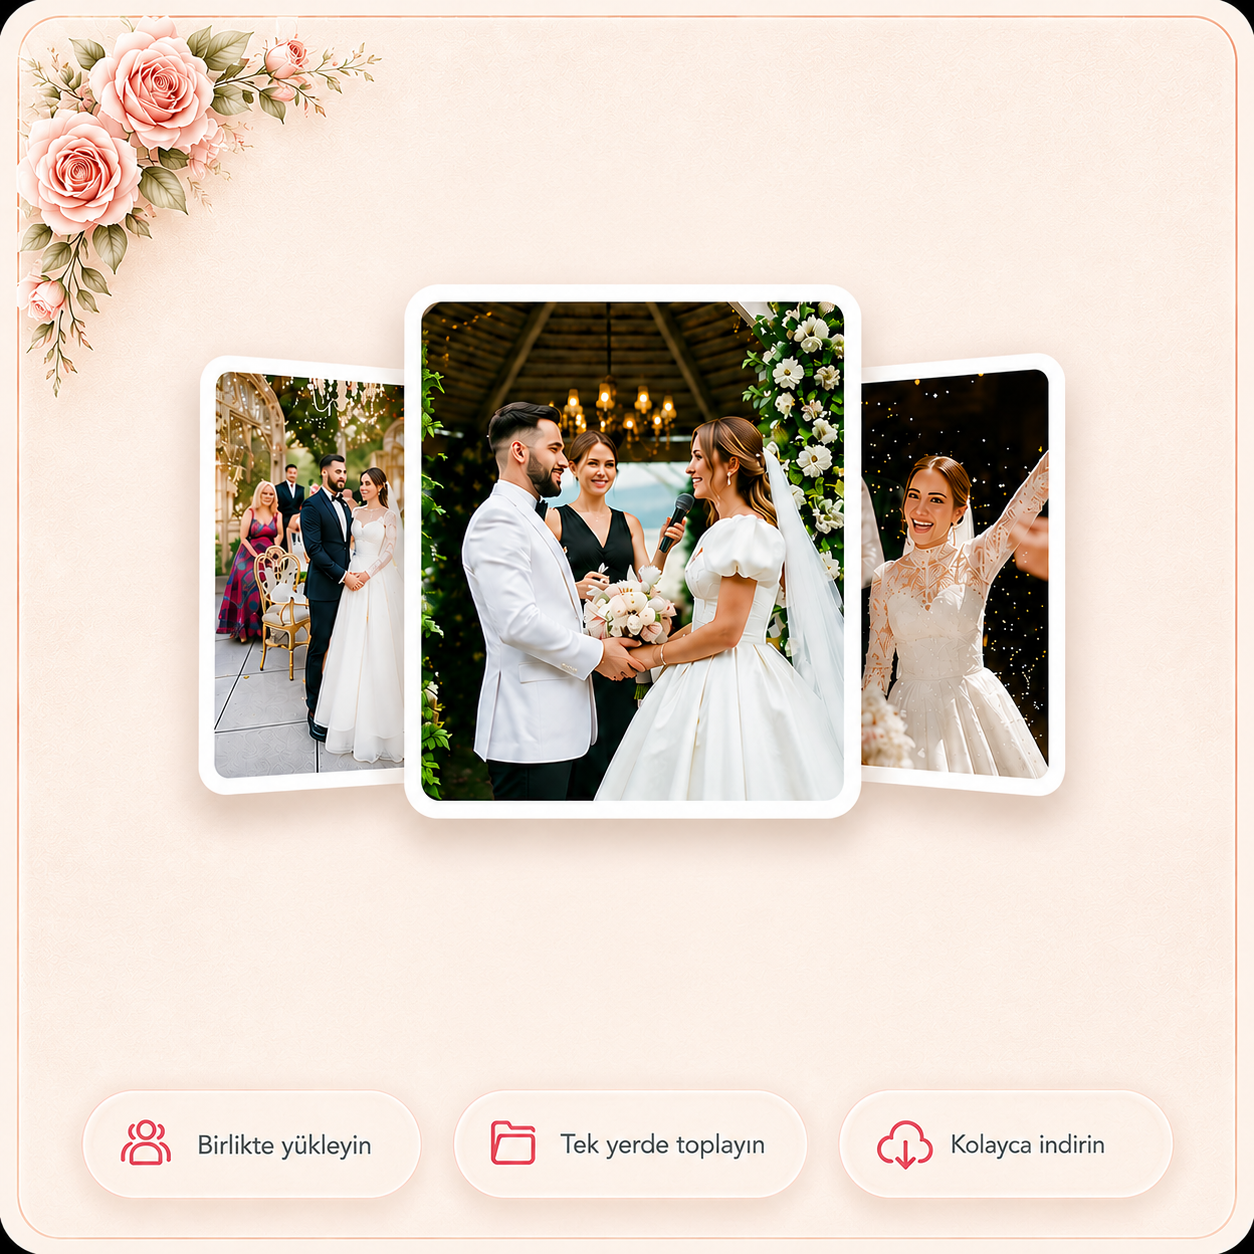
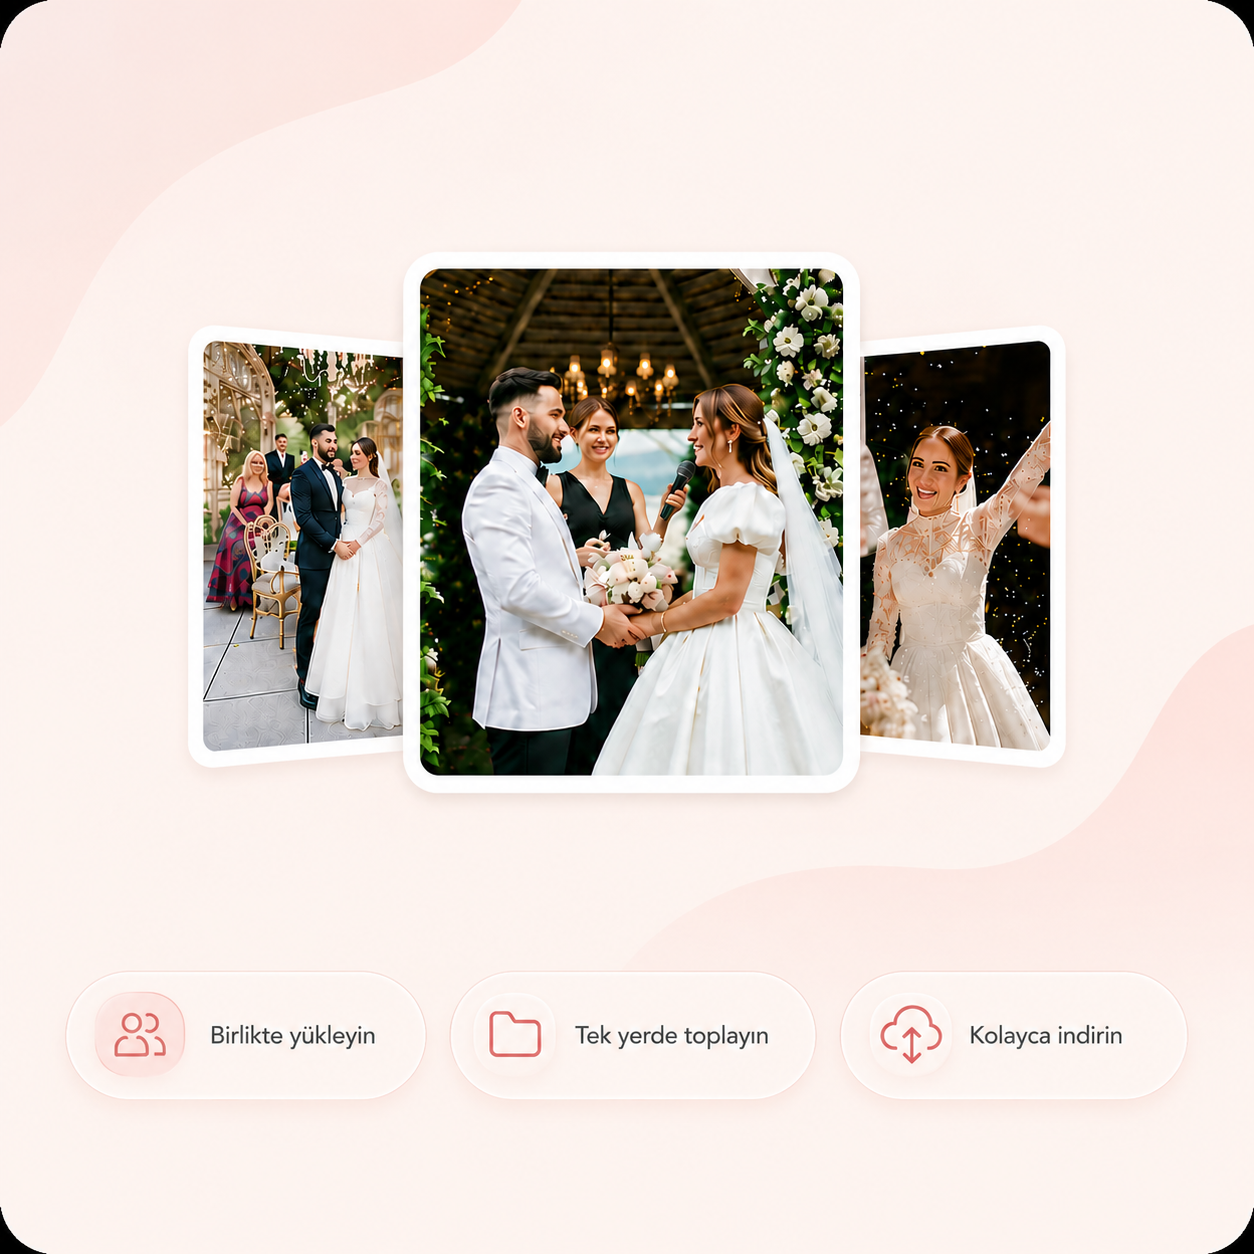
Adim 86: Canli yayin disclaimer + Tebrik zarf kaldir + Album v2 + Altin Tak yeniden tasarim
- Canli Yayin karti: '*Canli yayin kalitesi ve cozunurlugu internet baglanti
  hizimiza baglidir.' notu 3 badge'in altina eklendi (koyu gri).
- Tebrik karti: sol ust zarf ikonu kaldirildi, baslik top 20% -> 8% yukari alindi.
- Album karti: bg-album.png v2 ile guncellendi (hem ana sayfa hem canli sayfa
  album bolumu). Eski album-bg-4.png referansi degistirildi.
- Canli sayfa Altin Tak bolumu tamamen yeniden tasarlandi:
  + Yeni baslik (Playfair serif + altin renkli 'Altin Tak' + iki yanda altin cizgi)
  + 3 Trust Badge eklendi (Guvenli/Aninda/Banka Transferi - SVG iconlar)
  + 3x2 grid (Gram, Ceyrek+Populer, Yarim / Tam, Ata, Ozel)
  + Beyaz cardlar, sade krem bg, daha temiz shadow
  + Isim ust + gorsel orta + fiyat alt yerlesim

diff --git a/app/canli/[slug]/page.tsx b/app/canli/[slug]/page.tsx
@@ -1848,34 +1848,86 @@ export default function WatchPage() {
 
             {/* Mobilde Çift bilgisi + Aile kartı kaldırıldı (welcome modal'da gösteriliyor) */}
 
-            {/* Altın Tak - Premium */}
-            <div id="gold-section" className="mt-4 rounded-[20px] relative overflow-hidden" style={{ background: 'linear-gradient(180deg, rgba(248,240,224,0.85), rgba(240,230,210,0.8), rgba(232,220,202,0.85))', backdropFilter: 'blur(20px)', WebkitBackdropFilter: 'blur(20px)', boxShadow: '0 8px 40px rgba(180,155,120,0.12), 0 2px 10px rgba(0,0,0,0.04), inset 0 1px 0 rgba(255,255,255,0.5)', border: '1px solid rgba(212,175,55,0.12)' }}>
-              {/* Dekoratif ışıklar - daha parlak */}
-              <div className="absolute top-0 left-1/2 -translate-x-1/2 w-[80%] h-28 pointer-events-none" style={{ background: 'radial-gradient(ellipse at 50% 0%, rgba(232,210,160,0.25), rgba(212,175,55,0.08) 50%, transparent 80%)' }} />
-              <div className="absolute top-0 right-0 w-40 h-40 rounded-full blur-3xl opacity-[0.08] pointer-events-none" style={{ background: '#D4AF37' }} />
-              <div className="absolute top-0 left-0 w-32 h-32 rounded-full blur-3xl opacity-[0.05] pointer-events-none" style={{ background: '#E8C27A' }} />
-
-
-              <div className="px-5 pt-4 pb-3">
-                {/* Merkezi başlık */}
-                <div className="text-center mb-3">
-                  <h2 className="flex items-center justify-center gap-5 text-[30px] mb-1" style={{ color: '#5c4632', fontFamily: 'var(--font-script), "Cormorant Garamond", Georgia, serif', fontWeight: 600, letterSpacing: '1px', textShadow: '0 2px 6px rgba(60,40,20,0.2), 0 1px 2px rgba(0,0,0,0.1)' }}>
-                    <span className="flex-1 h-[1px]" style={{ background: 'linear-gradient(to right, transparent, #d4af37, transparent)', opacity: 0.6 }} />
-                    <span>Mutlu Çifte <span className="gold-title-shimmer" style={{ fontWeight: 700, color: '#C4A020' }}>Altın Tak</span></span>
-                    <span className="flex-1 h-[1px]" style={{ background: 'linear-gradient(to right, transparent, #d4af37, transparent)', opacity: 0.6 }} />
+            {/* Altın Tak - Yeni tasarım (referans görsele birebir) */}
+            <div id="gold-section" className="mt-4 rounded-[20px] relative overflow-hidden" style={{ background: 'linear-gradient(180deg, #FFF9F0 0%, #FDF4E7 100%)', boxShadow: '0 8px 32px rgba(180,155,120,0.10), 0 2px 8px rgba(0,0,0,0.03)', border: '1px solid rgba(220,200,170,0.20)' }}>
+              <div className="px-5 md:px-7 pt-6 pb-6">
+                {/* Başlık — sade serif + dash'lar */}
+                <div className="text-center mb-5 md:mb-6">
+                  <h2 className="flex items-center justify-center gap-3 md:gap-5" style={{ fontFamily: 'var(--font-playfair), Georgia, serif', fontWeight: 600, letterSpacing: '0.5px' }}>
+                    <span className="w-6 md:w-10 h-[2px]" style={{ background: '#C8A050', opacity: 0.6 }} />
+                    <span className="text-[24px] md:text-[30px] whitespace-nowrap" style={{ color: '#2B2B2B' }}>
+                      Mutlu Çifte{' '}
+                      <span style={{ color: '#C8A050', fontWeight: 700 }}>Altın Tak</span>
+                    </span>
+                    <span className="w-6 md:w-10 h-[2px]" style={{ background: '#C8A050', opacity: 0.6 }} />
                   </h2>
                 </div>
 
-                {/* Altın kartları */}
-                <div className="grid grid-cols-3 sm:grid-cols-4 md:grid-cols-6 gap-3">
+                {/* 3 Trust Badge satırı */}
+                <div className="grid grid-cols-3 gap-2.5 md:gap-3 mb-5 md:mb-6">
+                  {[
+                    {
+                      label: 'Güvenli',
+                      icon: (
+                        <svg viewBox="0 0 24 24" className="w-5 h-5 md:w-6 md:h-6" fill="#E26B72" stroke="#E26B72" strokeWidth="0.8">
+                          <path d="M12 2L4 5v6c0 5.5 3.8 10.7 8 12 4.2-1.3 8-6.5 8-12V5l-8-3z" fillOpacity="0.18" />
+                          <path d="M12 2L4 5v6c0 5.5 3.8 10.7 8 12 4.2-1.3 8-6.5 8-12V5l-8-3z" fill="none" />
+                          <path d="M9 12l2 2 4-4" fill="none" strokeWidth="2" strokeLinecap="round" strokeLinejoin="round" />
+                        </svg>
+                      ),
+                    },
+                    {
+                      label: 'Anında',
+                      icon: (
+                        <svg viewBox="0 0 24 24" className="w-5 h-5 md:w-6 md:h-6" fill="#F5B400">
+                          <path d="M13 2L4.5 13.5h6L9 22l8.5-11.5h-6L13 2z" />
+                        </svg>
+                      ),
+                    },
+                    {
+                      label: 'Banka Transferi',
+                      icon: (
+                        <svg viewBox="0 0 24 24" className="w-5 h-5 md:w-6 md:h-6" fill="none" stroke="#4A7AB7" strokeWidth="1.8" strokeLinecap="round" strokeLinejoin="round">
+                          <path d="M3 10L12 4l9 6" />
+                          <path d="M5 10v9M9 10v9M15 10v9M19 10v9" />
+                          <path d="M3 21h18" />
+                        </svg>
+                      ),
+                    },
+                  ].map((b, i) => (
+                    <div key={i} className="rounded-2xl px-3 md:px-4 py-3 flex items-center justify-center gap-2 md:gap-2.5"
+                         style={{ background: '#FFFFFF', boxShadow: '0 2px 8px rgba(140,110,70,0.06), 0 1px 3px rgba(0,0,0,0.03)' }}>
+                      {b.icon}
+                      <span className="text-[12px] md:text-[14px] font-semibold whitespace-nowrap" style={{ color: '#3B2F1E' }}>{b.label}</span>
+                    </div>
+                  ))}
+                </div>
+
+                {/* Altın kartları — 3 sütun (3×2 = 6 kart) */}
+                <div className="grid grid-cols-3 gap-3 md:gap-4">
                   {goldOptions.map((gold) => (
-                    <button key={gold.id} onClick={() => handleGoldSelect(gold.id)} className="group rounded-2xl p-4 text-center transition-all duration-300 hover:scale-[1.05] hover:-translate-y-1 relative overflow-hidden" style={{ background: gold.id === 'nakit' ? 'linear-gradient(165deg, #FCF7EC, #F4ECD8)' : 'linear-gradient(165deg, #FFFDF8, #F8F2E8)', boxShadow: '0 4px 16px rgba(150,130,100,0.08), 0 1px 3px rgba(0,0,0,0.04)', border: '1px solid rgba(200,180,150,0.15)' }} onMouseEnter={(e) => { e.currentTarget.style.boxShadow = '0 12px 35px rgba(212,175,55,0.15), 0 4px 12px rgba(0,0,0,0.06)'; e.currentTarget.style.border = '1px solid rgba(212,175,55,0.25)'; }} onMouseLeave={(e) => { e.currentTarget.style.boxShadow = '0 4px 16px rgba(150,130,100,0.08), 0 1px 3px rgba(0,0,0,0.04)'; e.currentTarget.style.border = '1px solid rgba(200,180,150,0.15)'; }}>
-                      {/* Hover glow */}
-                      <div className="absolute inset-0 opacity-0 group-hover:opacity-100 transition-opacity duration-500 rounded-2xl" style={{ background: 'radial-gradient(circle at 50% 30%, rgba(212,175,55,0.1), transparent 70%)' }} />
-                      {gold.id === 'ceyrek_altin' && <div className="absolute top-1.5 left-1/2 -translate-x-1/2 text-[8px] font-bold px-2.5 py-0.5 rounded-full text-white z-10" style={{ background: 'linear-gradient(135deg, #B8860B, #96700A)', boxShadow: '0 2px 6px rgba(184,134,11,0.3)' }}>Popular</div>}
-                      <div className="relative w-14 h-14 mx-auto mb-2.5 group-hover:scale-110 transition-transform duration-300"><Image src={gold.image} alt={gold.name} fill className="object-contain drop-shadow-md" /></div>
-                      <div className="text-[13px] sm:text-[14px] font-semibold leading-tight whitespace-nowrap" style={{ color: '#4A3C28' }}>{gold.name}</div>
-                      {gold.price > 0 ? (<div className="text-[13px] font-bold mt-1" style={{ color: '#8B6914' }}>₺{gold.price.toLocaleString()}</div>) : (<div className="text-[13px] mt-1" style={{ color: '#A88A30' }}>Serbest</div>)}
+                    <button key={gold.id} onClick={() => handleGoldSelect(gold.id)}
+                            className="group rounded-2xl px-3 pt-4 pb-3 md:px-4 md:pt-5 md:pb-4 text-center transition-all duration-300 hover:scale-[1.03] hover:-translate-y-0.5 relative"
+                            style={{ background: '#FFFFFF', boxShadow: '0 4px 12px rgba(150,120,80,0.08), 0 1px 3px rgba(0,0,0,0.03)', border: '1px solid rgba(220,200,170,0.18)' }}>
+                      {/* Populer badge - sadece Çeyrek Altın */}
+                      {gold.id === 'ceyrek_altin' && (
+                        <div className="absolute -top-2.5 left-1/2 -translate-x-1/2 text-[9px] md:text-[10px] font-bold px-3 py-0.5 rounded-full text-white z-10"
+                             style={{ background: 'linear-gradient(135deg, #B8860B, #96700A)', boxShadow: '0 2px 6px rgba(184,134,11,0.30)', letterSpacing: '0.3px' }}>
+                          Populer
+                        </div>
+                      )}
+                      {/* İsim */}
+                      <div className="text-[13px] md:text-[15px] font-semibold mb-2 md:mb-3 whitespace-nowrap" style={{ color: '#2B2B2B' }}>{gold.name}</div>
+                      {/* Görsel */}
+                      <div className="relative w-14 h-14 md:w-20 md:h-20 mx-auto mb-2 md:mb-3 group-hover:scale-105 transition-transform duration-300">
+                        <Image src={gold.image} alt={gold.name} fill className="object-contain drop-shadow-md" />
+                      </div>
+                      {/* Fiyat / Serbest */}
+                      {gold.price > 0 ? (
+                        <div className="text-[14px] md:text-[18px] font-bold" style={{ color: '#8B6914', letterSpacing: '0.2px' }}>₺{gold.price.toLocaleString()}</div>
+                      ) : (
+                        <div className="text-[13px] md:text-[15px] font-medium" style={{ color: '#A88A30' }}>Serbest</div>
+                      )}
                     </button>
                   ))}
                 </div>
@@ -1925,8 +1977,8 @@ export default function WatchPage() {
               <button onClick={() => setShowMessageModal(true)} className="text-white px-4 py-2.5 rounded-xl font-semibold text-xs flex-shrink-0 transition-all hover:scale-105 flex items-center gap-1.5 relative overflow-hidden" style={{ background: 'linear-gradient(135deg, #A8D6B0, #6DC275, #5BA865)', boxShadow: '0 6px 16px rgba(91,168,101,0.28), inset 0 1px 0 rgba(255,255,255,0.4)' }}><span className="absolute inset-0 opacity-50" style={{ background: 'linear-gradient(180deg, rgba(255,255,255,0.25) 0%, transparent 50%)' }} /><span className="relative">Gönder</span><svg className="w-3 h-3 relative" fill="none" stroke="currentColor" viewBox="0 0 24 24"><path strokeLinecap="round" strokeLinejoin="round" strokeWidth={3} d="M9 5l7 7-7 7" /></svg></button>
             </div>
 
-            {/* Nikah Albümü — pembe sulu boya gül background (yatayda hafif stretch ile çizgiler yok) */}
-            <div className="rounded-2xl px-5 pt-6 pb-5 flex flex-col relative overflow-hidden lg:flex-1 lg:justify-between" style={{ backgroundImage: 'url(/album-bg-4.png)', backgroundSize: '108% 102%', backgroundPosition: 'center', backgroundRepeat: 'no-repeat', boxShadow: '0 16px 44px rgba(200,140,140,0.12), 0 4px 14px rgba(0,0,0,0.04)', border: '1px solid rgba(0,0,0,0.04)' }}>
+            {/* Nikah Albümü — yeni album kart v2 background */}
+            <div className="rounded-2xl px-5 pt-6 pb-5 flex flex-col relative overflow-hidden lg:flex-1 lg:justify-between" style={{ backgroundImage: 'url(/bg-album.png)', backgroundSize: '108% 102%', backgroundPosition: 'center', backgroundRepeat: 'no-repeat', boxShadow: '0 16px 44px rgba(200,140,140,0.12), 0 4px 14px rgba(0,0,0,0.04)', border: '1px solid rgba(0,0,0,0.04)' }}>
 
               {/* Editorial Luxury header — Mutlu Kareler — masaüstünde hafif aşağı */}
               <div className="text-center relative z-10 mt-3 lg:mt-6">

diff --git a/app/page.tsx b/app/page.tsx
@@ -279,7 +279,12 @@ export default function Home() {
               </p>
             </div>
 
-            {/* Badge yazıları artık bg PNG'sinde baked-in (HTML overlay yok) */}
+            {/* Badge yazıları bg PNG'sinde baked-in. Sadece yıldız notu altta */}
+            <div className="absolute" style={{ bottom: '2%', left: 0, right: 0 }}>
+              <p className="text-center" style={{ color: '#4A3F3F', fontSize: 'clamp(8px, 1.3vw, 11px)', fontWeight: 500 }}>
+                * Canlı yayın kalitesi ve çözünürlüğü internet bağlantı hızınıza bağlıdır.
+              </p>
+            </div>
           </div>
 
           {/* Altınlarınızı Online Toplayın - kart */}
@@ -312,24 +317,10 @@ export default function Home() {
           <div className="relative rounded-3xl overflow-hidden mx-auto w-full" style={{ aspectRatio: '1 / 1', maxWidth: '720px', boxShadow: '0 16px 48px rgba(200,140,140,0.18), 0 4px 14px rgba(0,0,0,0.04)', border: '1px solid rgba(232,180,170,0.25)' }}>
             <img src="/bg-tebrik.png" alt="Tebrik mesajlarınızı kabul edin" className="absolute inset-0 w-full h-full object-cover pointer-events-none select-none" />
 
-            {/* Premium zarf ikonu — sol üst köşe (kalpsiz, sade wax seal) */}
-            <div className="absolute" style={{ top: '2.5%', left: '5%' }}>
-              <svg viewBox="0 0 64 64" fill="none" style={{ width: 'clamp(40px, 10vw, 72px)', height: 'clamp(40px, 10vw, 72px)' }}>
-                {/* Envelope body */}
-                <rect x="6" y="14" width="52" height="38" rx="3" fill="#FFFBFA" stroke="#C8686E" strokeWidth="2" strokeLinejoin="round" />
-                {/* V flap */}
-                <path d="M6 17 L32 36 L58 17" stroke="#C8686E" strokeWidth="2" fill="none" strokeLinecap="round" strokeLinejoin="round" />
-                {/* Side fold lines */}
-                <path d="M6 50 L24 36" stroke="#C8686E" strokeWidth="1.5" fill="none" strokeLinecap="round" opacity="0.5" />
-                <path d="M58 50 L40 36" stroke="#C8686E" strokeWidth="1.5" fill="none" strokeLinecap="round" opacity="0.5" />
-                {/* Wax seal — sade, kalpsiz */}
-                <circle cx="32" cy="40" r="7" fill="#E26B72" />
-                <circle cx="32" cy="40" r="7" fill="none" stroke="#fff" strokeWidth="1.5" opacity="0.55" />
-              </svg>
-            </div>
+            {/* Zarf ikonu kaldırıldı — kullanıcı isteği */}
 
-            {/* Sol alan: heading + açıklama */}
-            <div className="absolute" style={{ top: '20%', left: '6%', width: '52%' }}>
+            {/* Sol alan: heading + açıklama (zarf gittiği için yukarı alındı) */}
+            <div className="absolute" style={{ top: '8%', left: '6%', width: '52%' }}>
               <h3 className="leading-[1.05]" style={{ fontFamily: 'var(--font-playfair)', color: '#1F1F1F', fontWeight: 600, fontSize: 'clamp(22px, 5.4vw, 44px)' }}>Tebrik</h3>
               <h3 className="leading-[1.05]" style={{ fontFamily: 'var(--font-playfair)', color: '#E26B72', fontWeight: 600, fontSize: 'clamp(22px, 5.4vw, 44px)' }}>mesajlarınızı</h3>
               <h3 className="leading-[1.05]" style={{ fontFamily: 'var(--font-playfair)', color: '#1F1F1F', fontWeight: 600, fontSize: 'clamp(22px, 5.4vw, 44px)' }}>kabul edin !</h3>
